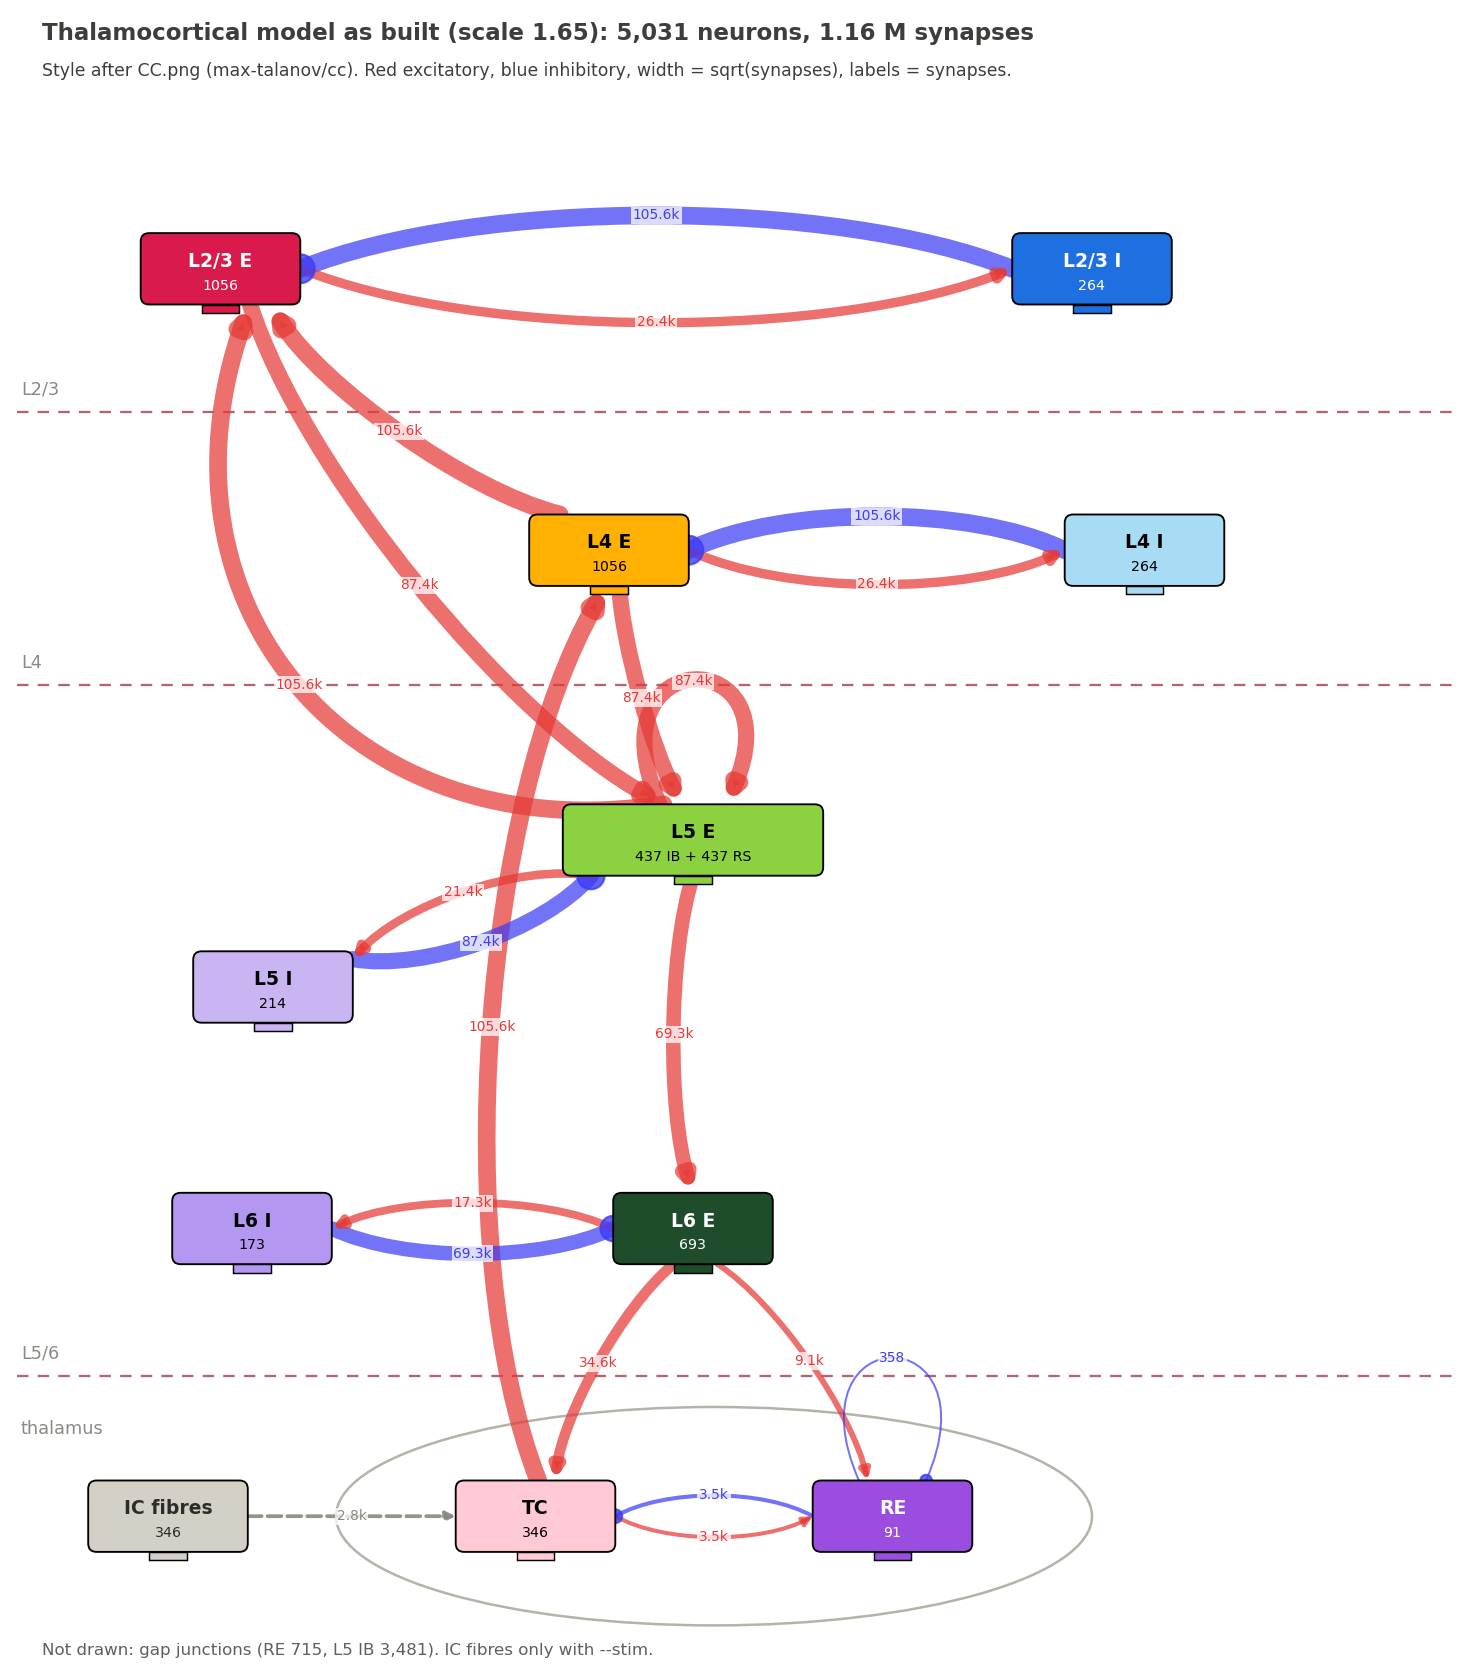
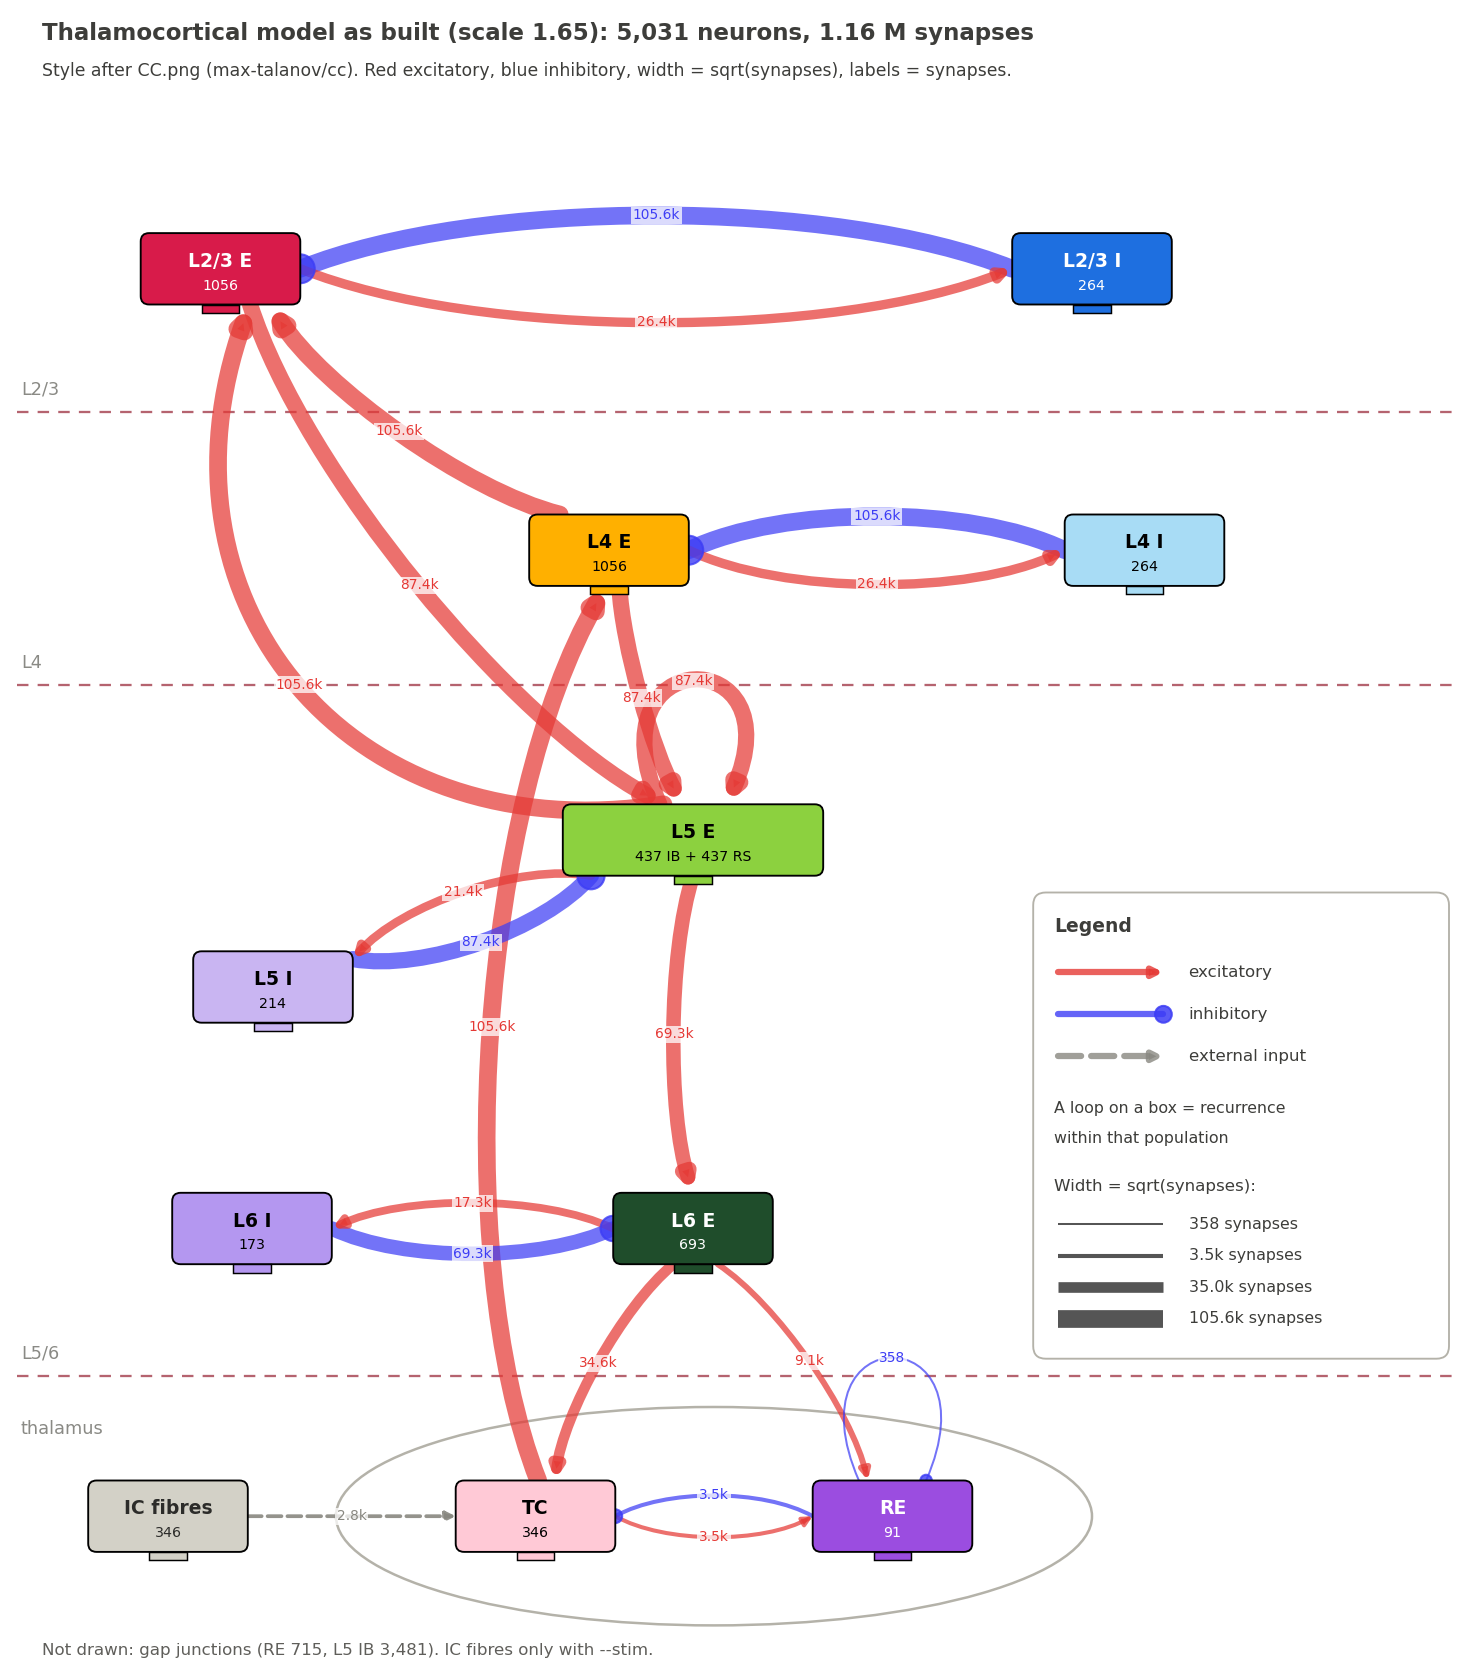
Add a legend to the connectivity diagram
Edge types (excitatory, inhibitory, external input), what a self-loop means
(recurrence within a population), and a width key drawn with the same
sqrt(synapses) formula as the edges (358, 3.5k, 35k, 105.6k synapses).
Placed in the empty area right of L5/L6; nothing else in the figure moved,
and the other three architecture figures are unchanged.

diff --git a/neuron/plot_architecture.py b/neuron/plot_architecture.py
@@ -334,6 +334,37 @@ def connectivity(path):
                 fontweight="bold", zorder=7)
         ax.text(x, y + 8, sub, ha="center", va="center", fontsize=6.8, color=tc, zorder=7)
 
+    # legend, in the empty area right of L5/L6; widths use the same formula as the edges
+    lx, ly, lw_, lh = 492, 425, 198, 222
+    ax.add_patch(FancyBboxPatch((lx, ly), lw_, lh, boxstyle="round,pad=0,rounding_size=6",
+                                fc="white", ec="#b4b2a9", lw=0.9, zorder=8))
+    ax.text(lx + 10, ly + 16, "Legend", fontsize=9, color=TXT, fontweight="bold", va="center",
+            zorder=9)
+    def sample(y, col, kind, text):
+        path = Path([(lx + 12, y), (lx + 62, y)], [Path.MOVETO, Path.LINETO])
+        ax.add_patch(FancyArrowPatch(path=path, arrowstyle="-" if kind == "I" else "-|>",
+                                     mutation_scale=9, color=col, lw=3.0, alpha=0.8,
+                                     ls="--" if kind == "X" else "-", shrinkA=0, shrinkB=0,
+                                     zorder=9))
+        if kind == "I":
+            ax.add_patch(plt.Circle((lx + 62, y), 4.0, color=col, alpha=0.85, zorder=9))
+        ax.text(lx + 74, y, text, fontsize=8, color=TXT, va="center", zorder=9)
+    sample(ly + 38, "#e53935", "E", "excitatory")
+    sample(ly + 58, "#3d3df5", "I", "inhibitory")
+    sample(ly + 78, "#888780", "X", "external input")
+    ax.text(lx + 10, ly + 103, "A loop on a box = recurrence", fontsize=7.6, color=TXT,
+            va="center", zorder=9)
+    ax.text(lx + 10, ly + 117, "within that population", fontsize=7.6, color=TXT,
+            va="center", zorder=9)
+    ax.text(lx + 10, ly + 140, "Width = sqrt(synapses):", fontsize=8, color=TXT, va="center",
+            zorder=9)
+    for i, n in enumerate((358, 3500, 35000, 105600)):
+        y = ly + 158 + i * 15
+        ax.plot([lx + 12, lx + 62], [y, y], color="#555555", lw=0.5 + 8.0 * np.sqrt(n / 105600.0),
+                solid_capstyle="butt", zorder=9)
+        ax.text(lx + 74, y, "%s synapses" % ("%.1fk" % (n / 1000.0) if n >= 1000 else n),
+                fontsize=7.6, color=TXT, va="center", zorder=9)
+
     ax.text(20, 16, "Thalamocortical model as built (scale 1.65): 5,031 neurons, 1.16 M synapses",
             fontsize=11, color=TXT, fontweight="bold", va="center")
     ax.text(20, 34, "Style after CC.png (max-talanov/cc). Red excitatory, blue inhibitory, "
